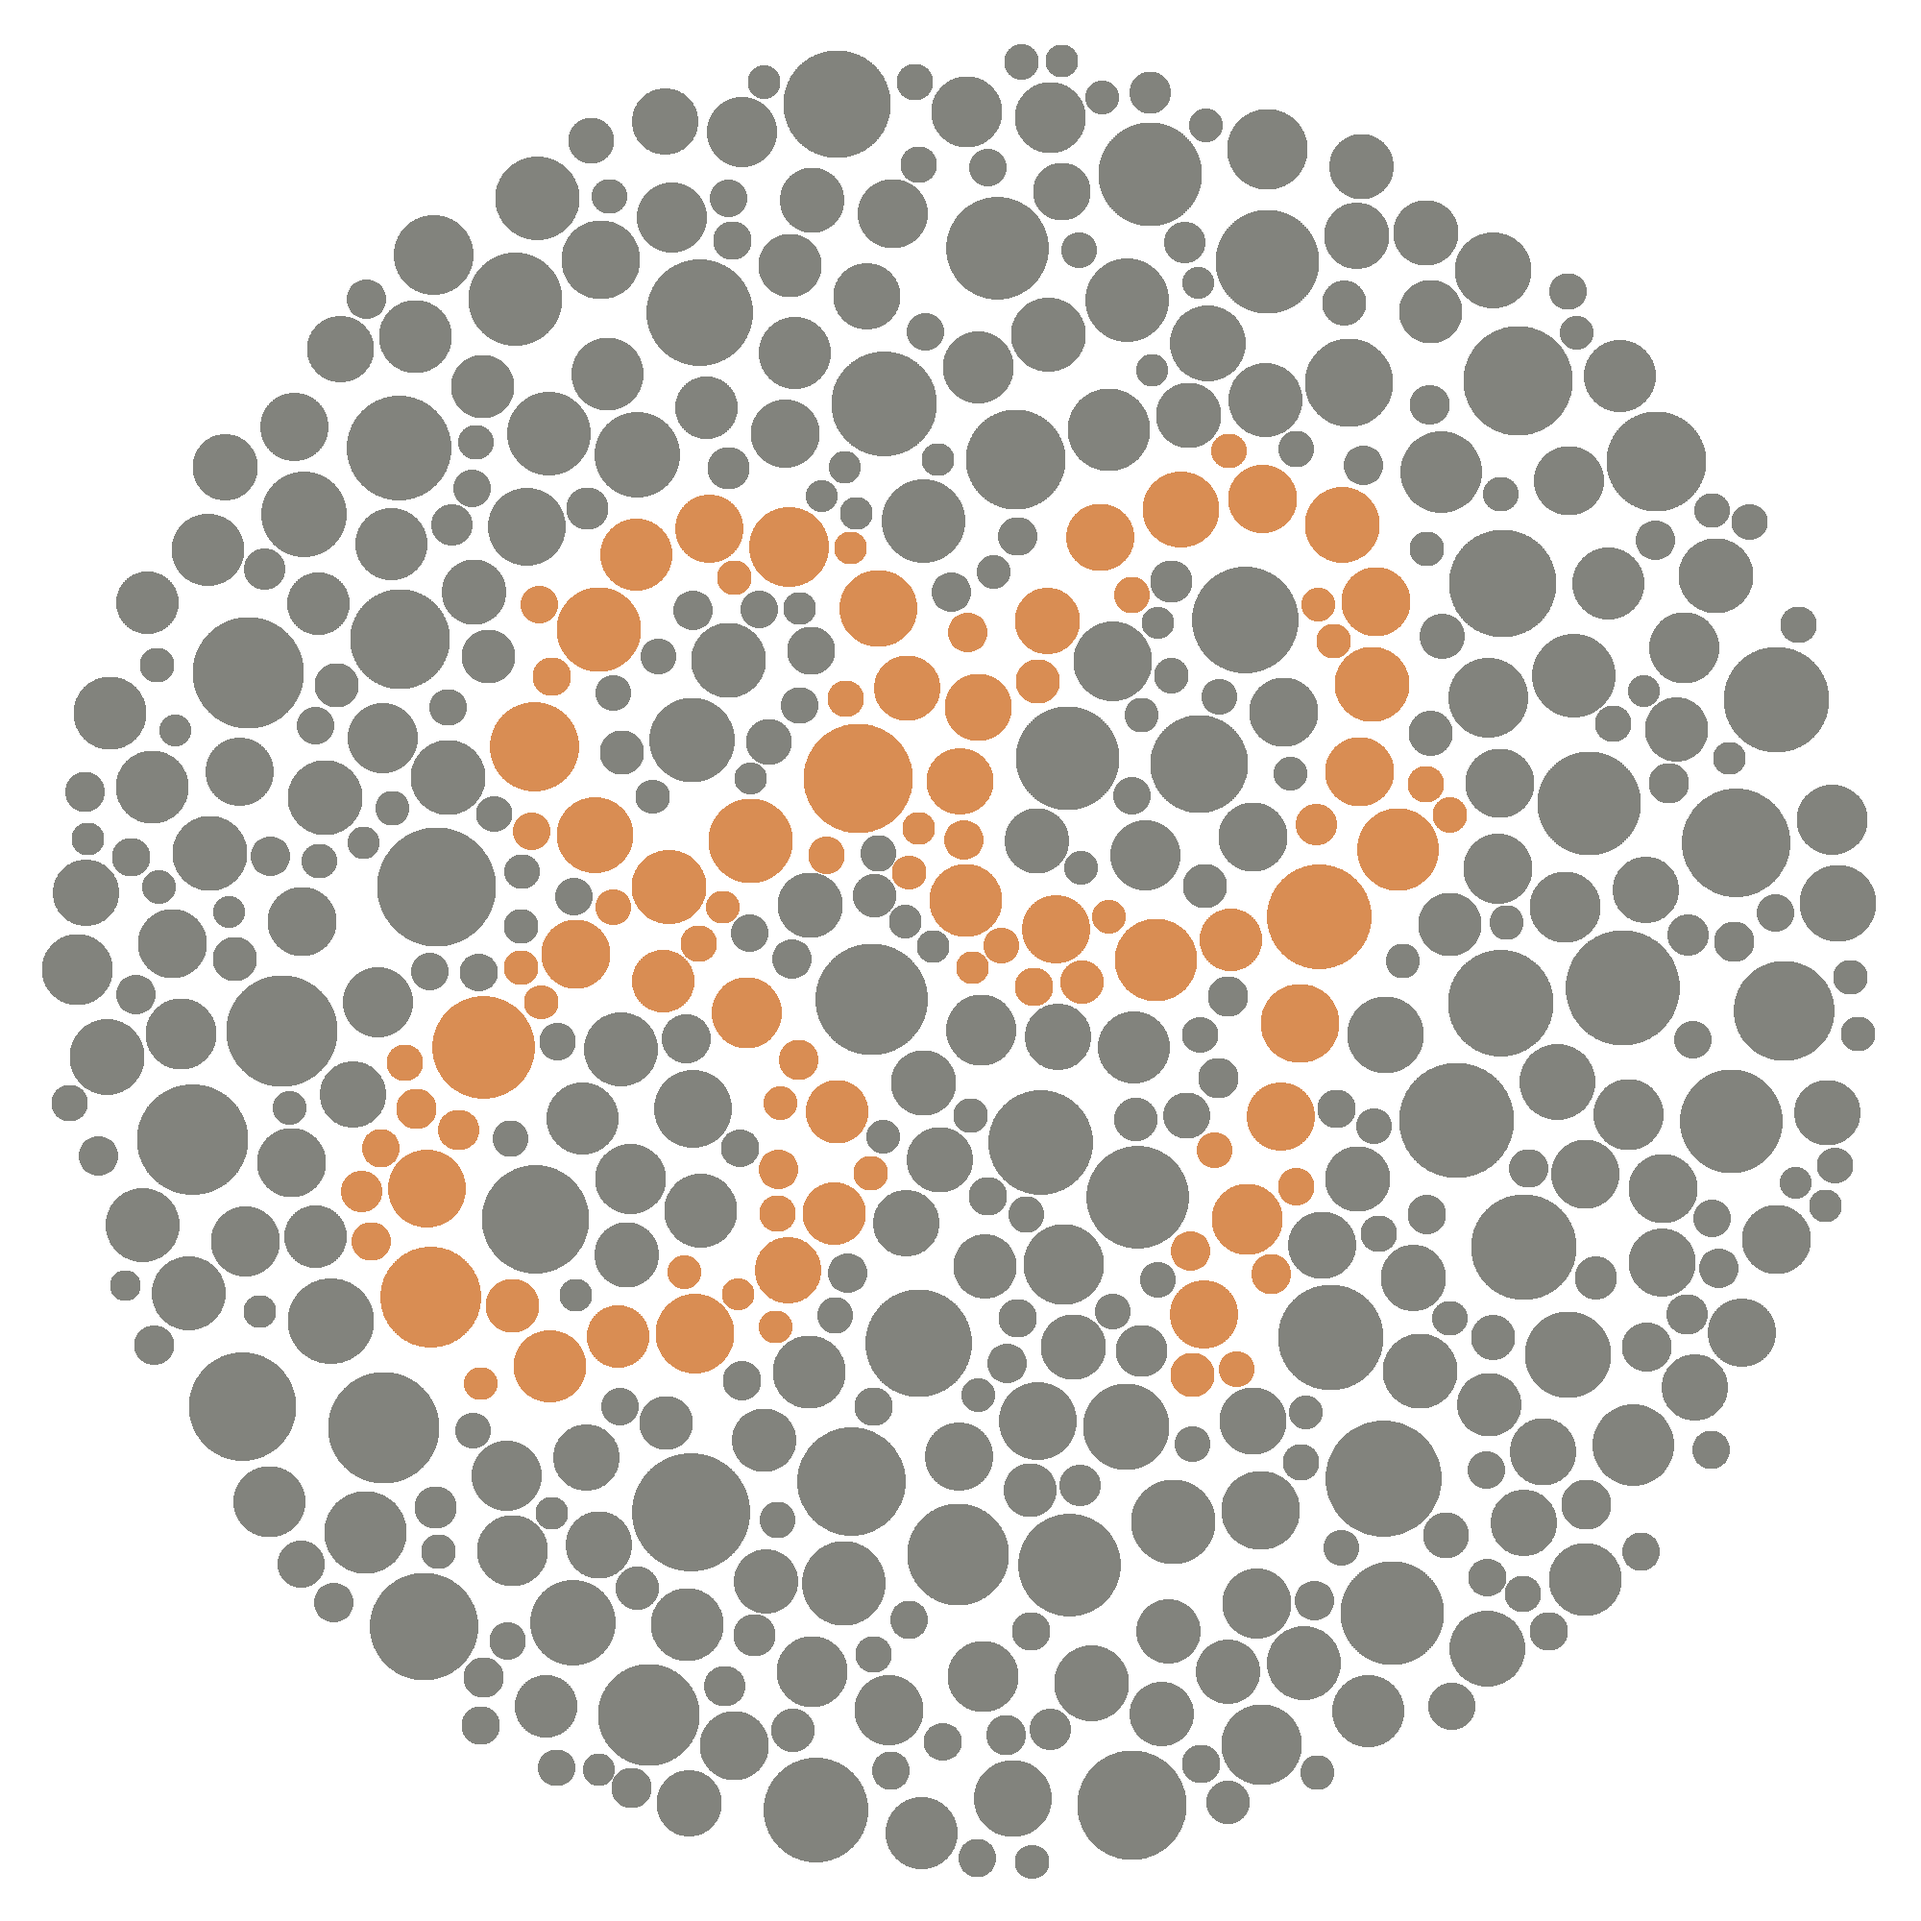
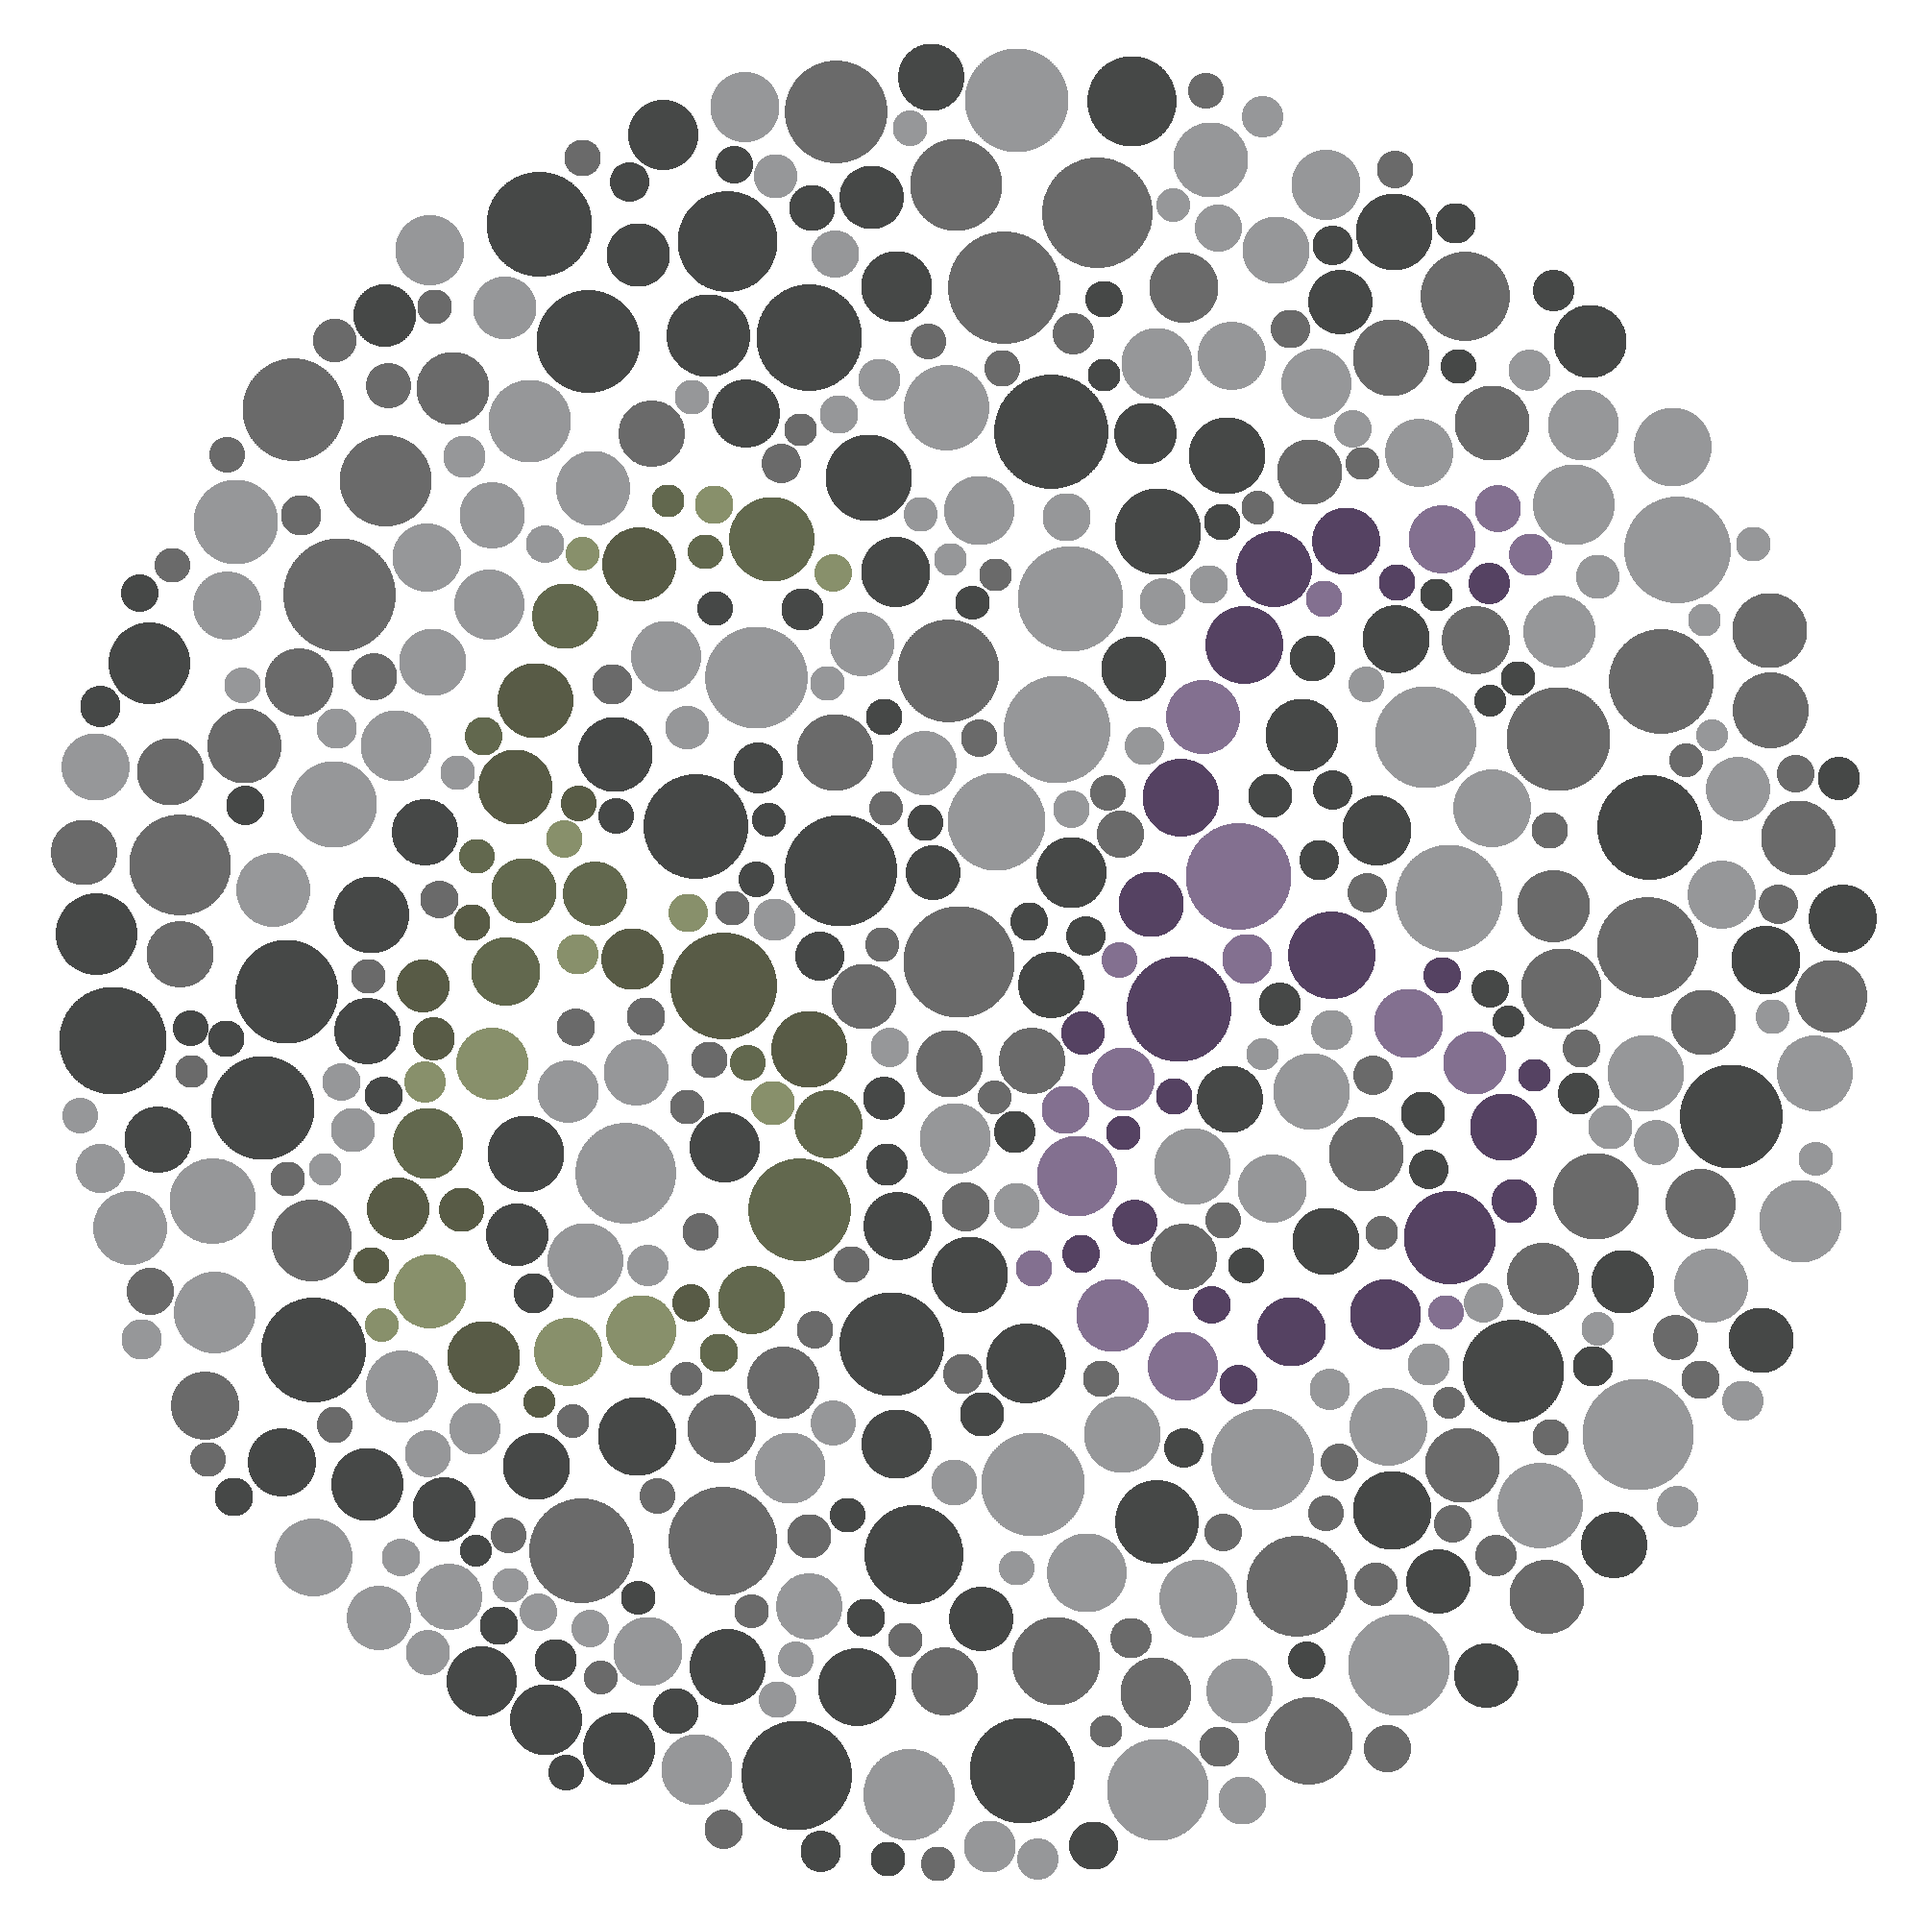
update colorset color
adjust color value

diff --git a/colorset.py b/colorset.py
@@ -44,20 +44,20 @@ COLORS_ON = [
     ],  # number11
     [color(0x8A6C46), color(0xB29261), color(0xCCA36B)],  # brown_number12
     [
-        [color(0x9E635B), color(0xC5817E), color(0xEAA095)],  # pink
-        [color(0x0E6A5D), color(0x2E7F70), color(0x4A9380)]  # cyan
+        [color(0xc37279), color(0xc66a6f), color(0xf09695)],  # pink
+        [color(0x006e61), color(0x298270), color(0x46ab99)]  # cyan
     ],  # number13
     [
-        [color(0x9E635B), color(0xC5817E), color(0xEAA095)],  # pink
-        [color(0x0E6A5D), color(0x2E7F70), color(0x4A9380)]  # cyan
+        [color(0xc37279), color(0xc66a6f), color(0xf09695)],  # pink
+        [color(0x006e61), color(0x298270), color(0x46ab99)]  # cyan
     ],  # number14
     [
-        [color(0x7C5A58), color(0x956865), color(0xAE7E74)],  # weak pink
-        [color(0x466458), color(0x517363), color(0x6F8B7C)]  # weak cyan
+        [color(0x8d5554), color(0xa47472), color(0xc98987)],  # weak pink
+        [color(0x668878), color(0x6b968c), color(0x87b2a9)]  # weak cyan
     ],  # number15
     [
-        [color(0x7C5A58), color(0x956865), color(0xAE7E74)],  # weak pink
-        [color(0x466458), color(0x517363), color(0x6F8B7C)]  # weak cyan
+        [color(0x8d5554), color(0xa47472), color(0xc98987)],  # weak pink
+        [color(0x668878), color(0x6b968c), color(0x87b2a9)]  # weak cyan
     ],  # number16
     [
         [color(0x846560), color(0x9E7D78), color(0xB08F88)],  # very weak pink
@@ -68,12 +68,12 @@ COLORS_ON = [
         [color(0x49594E), color(0x5D6F63), color(0x6B8778)] # very weak cyan
     ],  # number18
     [
-        [color(0x9E635B), color(0xC5817E), color(0xEAA095)],  # pink
-        [color(0x0E6A5D), color(0x2E7F70), color(0x4A9380)]  # cyan
+        [color(0xc37279), color(0xc66a6f), color(0xf09695)],  # pink
+        [color(0x006e61), color(0x298270), color(0x46ab99)]  # cyan
     ],  # number19
     [
-        [color(0x7C5A58), color(0x956865), color(0xAE7E74)],  # weak pink
-        [color(0x466458), color(0x517363), color(0x6F8B7C)]  # weak cyan
+        [color(0x8d5554), color(0xa47472), color(0xc98987)],  # weak pink
+        [color(0x668878), color(0x6b968c), color(0x87b2a9)]  # weak cyan
     ],  # number20
     [
         [color(0x846560), color(0x9E7D78), color(0xB08F88)],  # very weak pink
